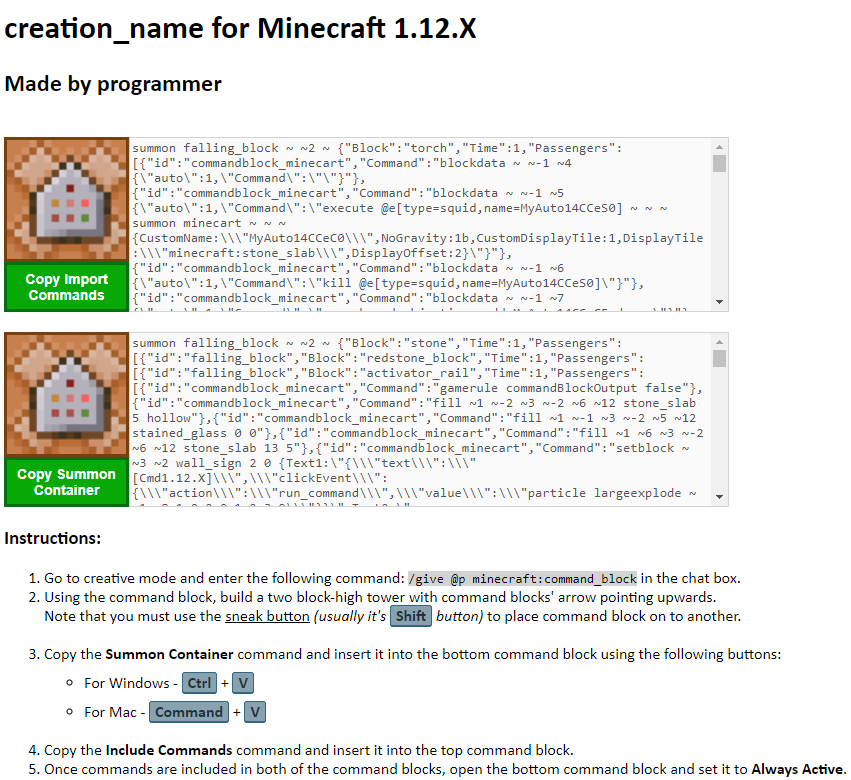
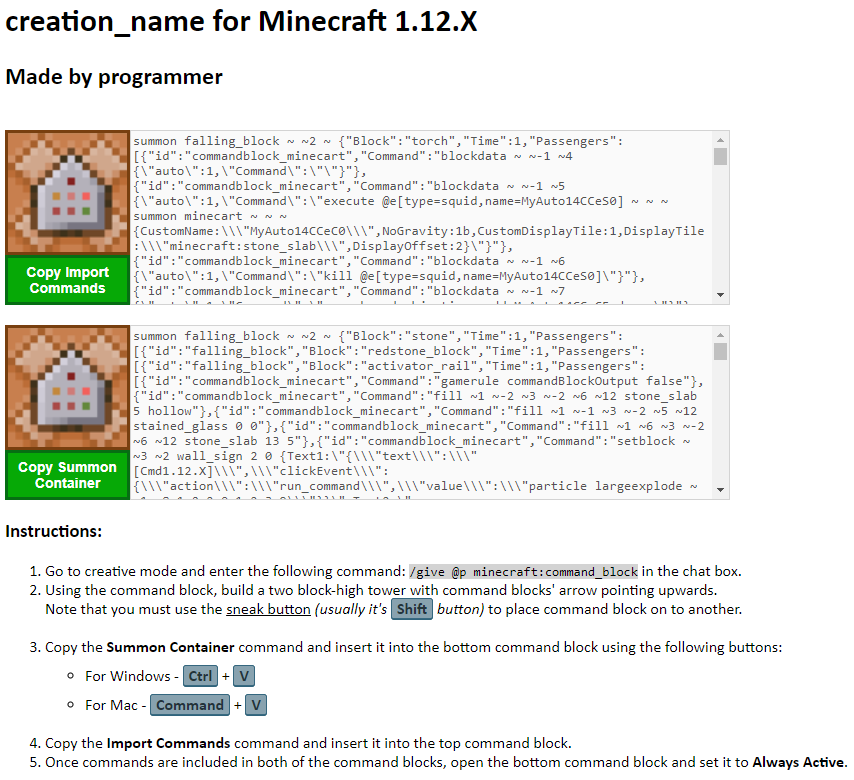
Fixed typo and covered the evidence :)

diff --git a/Minecraft-DT2/mdt/development_tools/Command Creation Generator/src/js/main.js b/Minecraft-DT2/mdt/development_tools/Command Creation Generator/src/js/main.js
@@ -478,7 +478,7 @@ async function generateAndSaveCreation(fileName=false) {
           </ul>
         </li>
         <br>
-        <li>Copy the <strong>Include Commands</strong> command and insert it into  the top command block.</li>
+        <li>Copy the <strong>Import Commands</strong> command and insert it into  the top command block.</li>
         <li>Once commands are included in both of the command blocks, open the bottom command block and set it to <strong>Always Active</strong>.</li>
       </ol>
       <script type="text/javascript">${script}</script>
